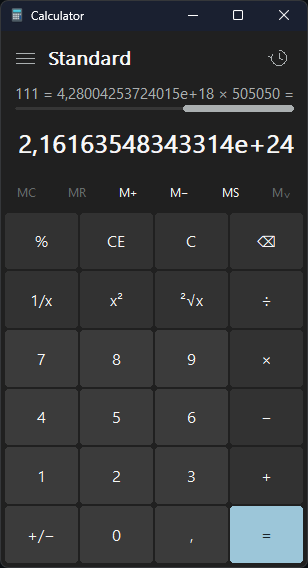
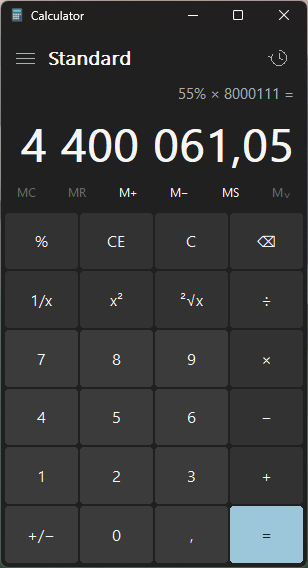
Replace README screenshots

diff --git a/README.md b/README.md
@@ -19,9 +19,11 @@
 
 ## Screenshots
 
-| Calculator | Persistent history |
+| Update status | Standard calculator |
 |---|---|
-| ![Persistent Calculator showing a long calculation](docs/screenshots/calculator.png) | ![Persistent Calculator history panel](docs/screenshots/history.png) |
+| ![Persistent Calculator showing its attached update-status notice](docs/screenshots/update-status.png) | ![Persistent Calculator showing a grouped large result](docs/screenshots/calculator.png) |
+| **Persistent history** | **Changelog** |
+| ![Persistent Calculator history panel](docs/screenshots/history.png) | ![Persistent Calculator changelog panel](docs/screenshots/changelog.png) |
 
 ## Features
 